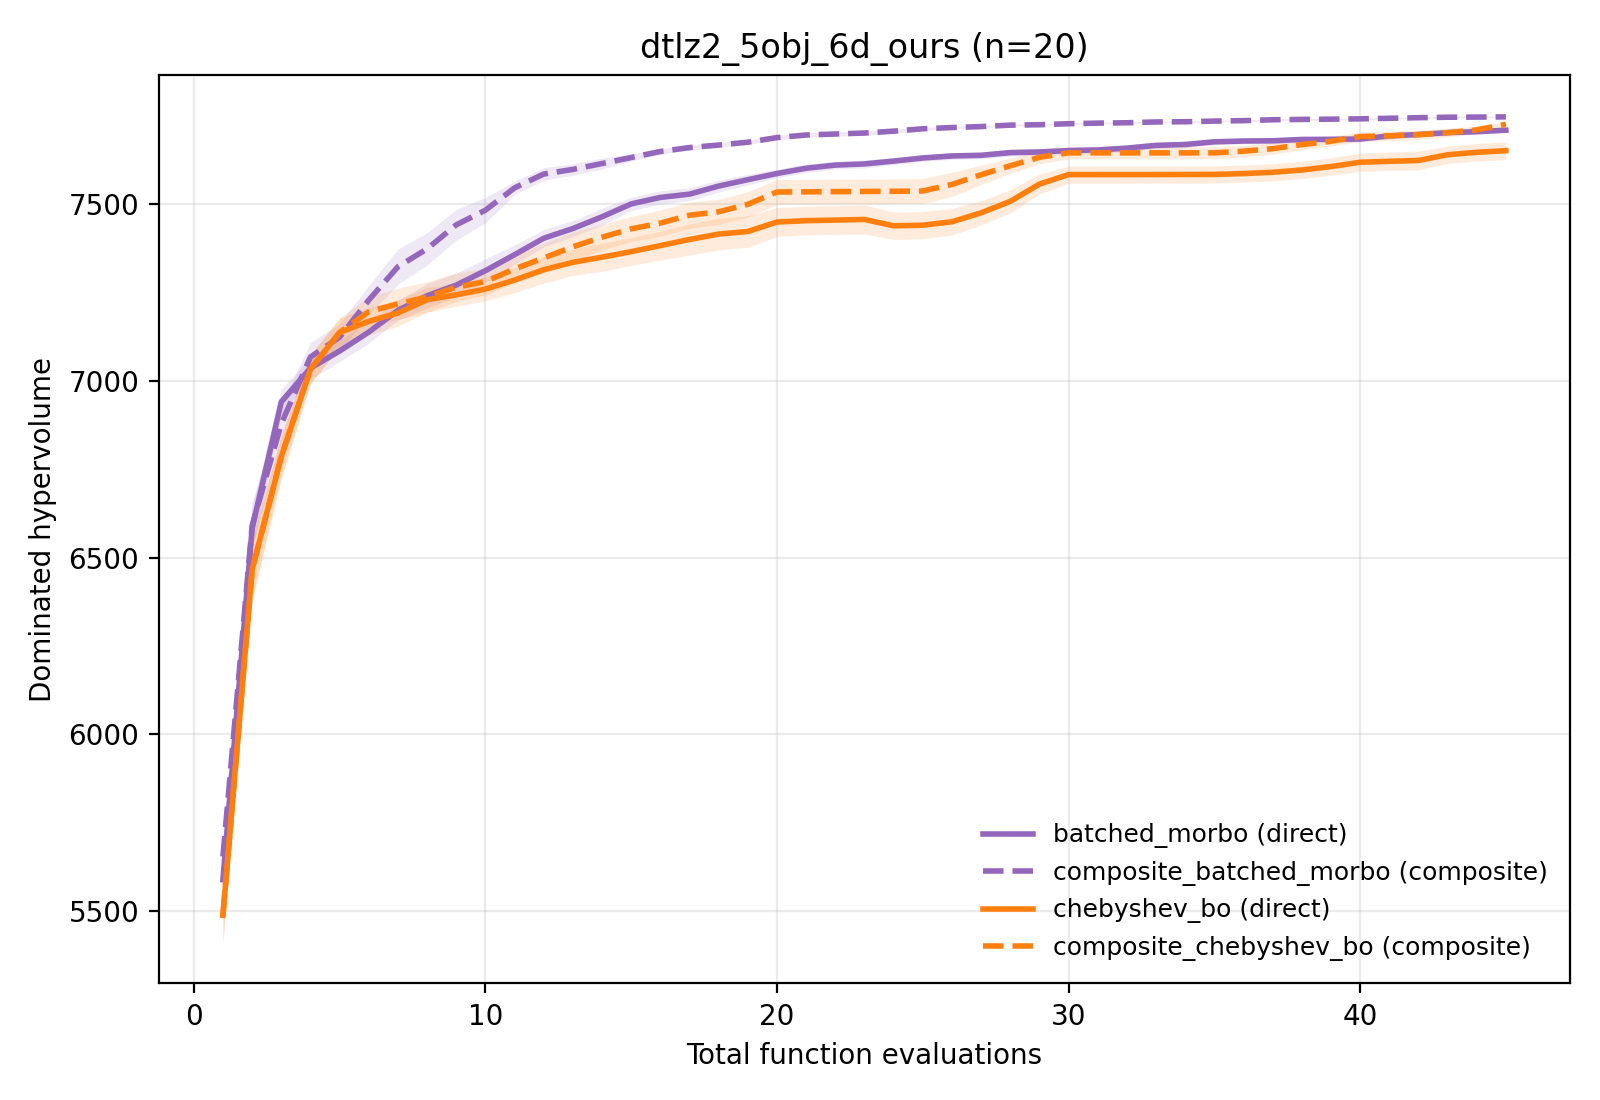
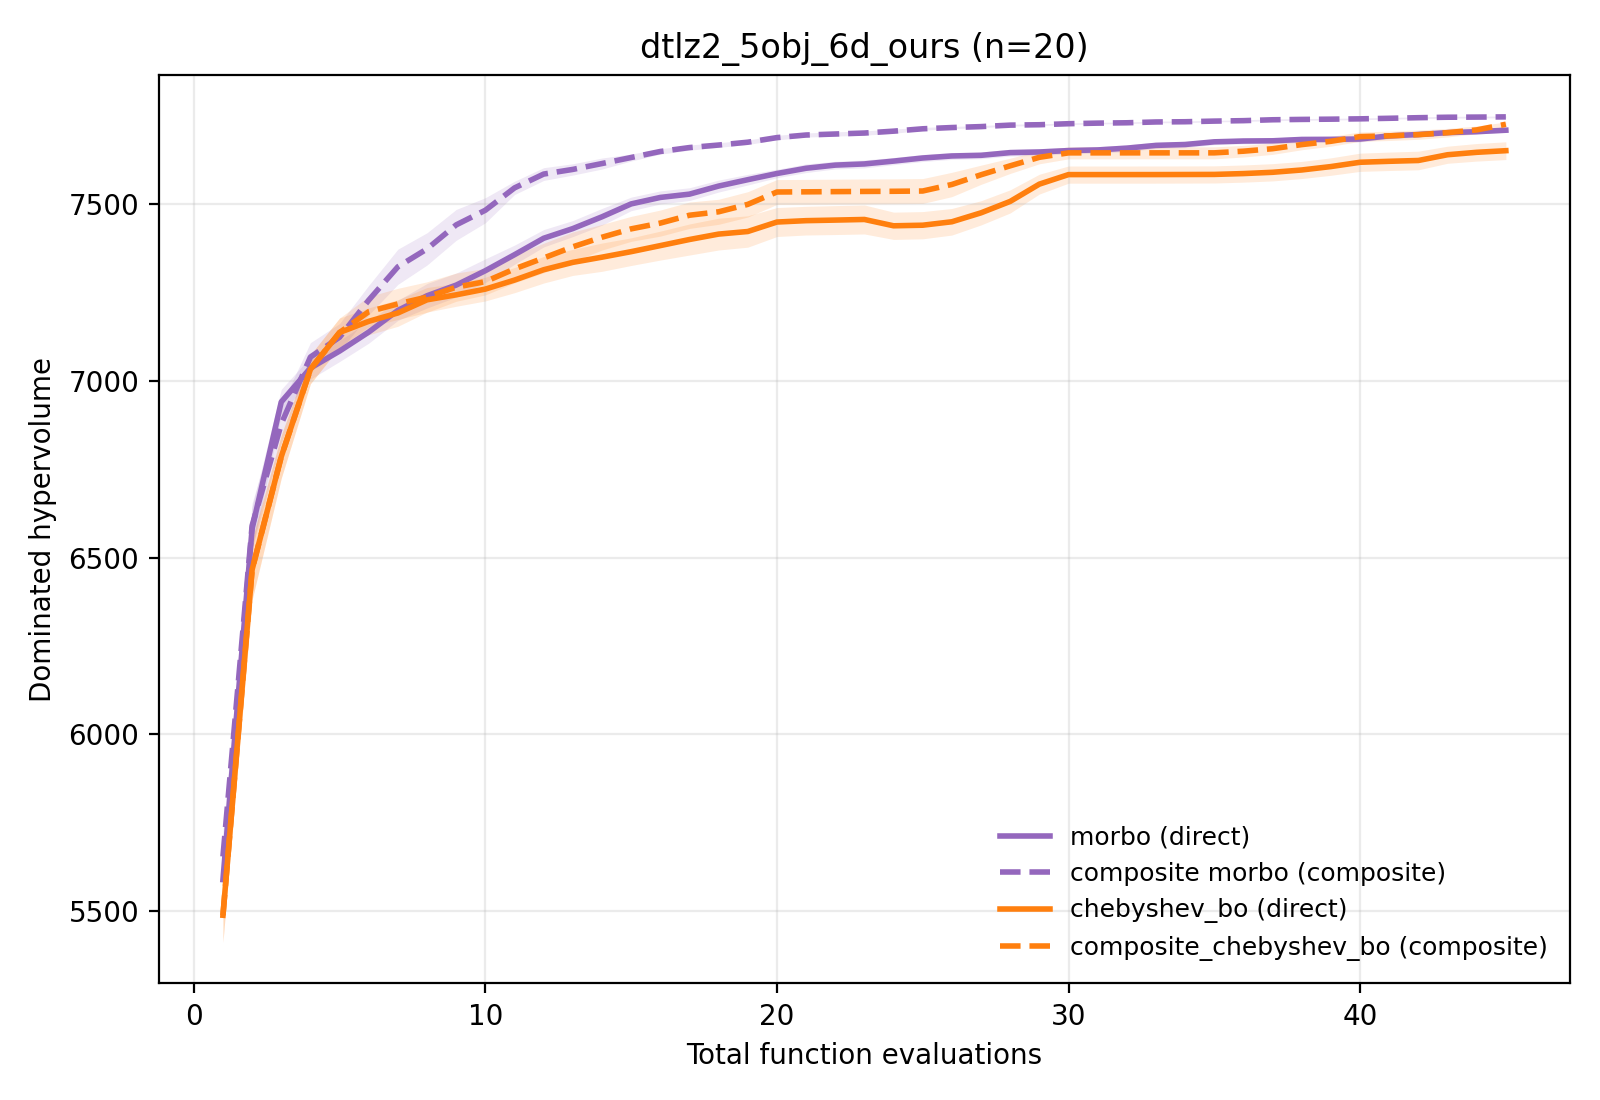
Relabel batched_morbo/composite_batched_morbo as morbo/composite morbo

Changed region(s): [[0.625, 0.7418, 0.9688, 0.8655]]

diff --git a/composite_ablation/plot_ablation.py b/composite_ablation/plot_ablation.py
@@ -40,6 +40,8 @@ _COLORS = {
 _DISPLAY_NAMES = {
     "standard_mobo": "qEHVI",
     "composite_mobo": "composite qEHVI",
+    "batched_morbo": "morbo",
+    "composite_batched_morbo": "composite morbo",
 }
 
 
